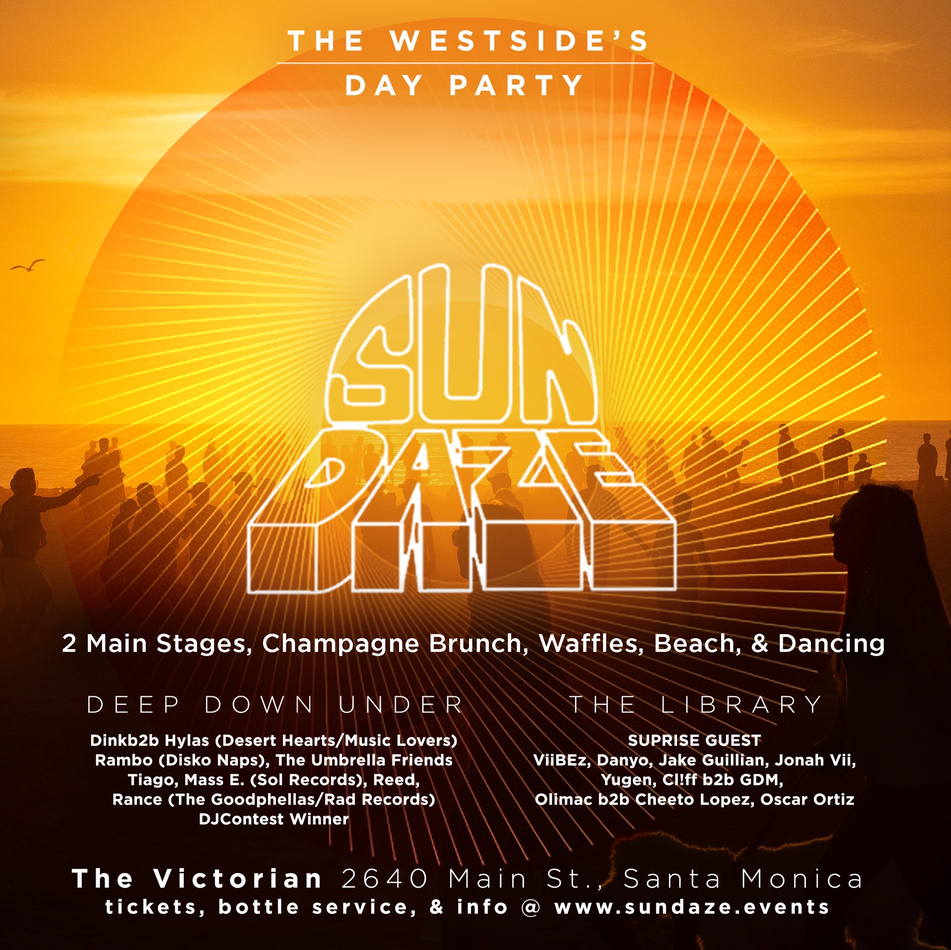
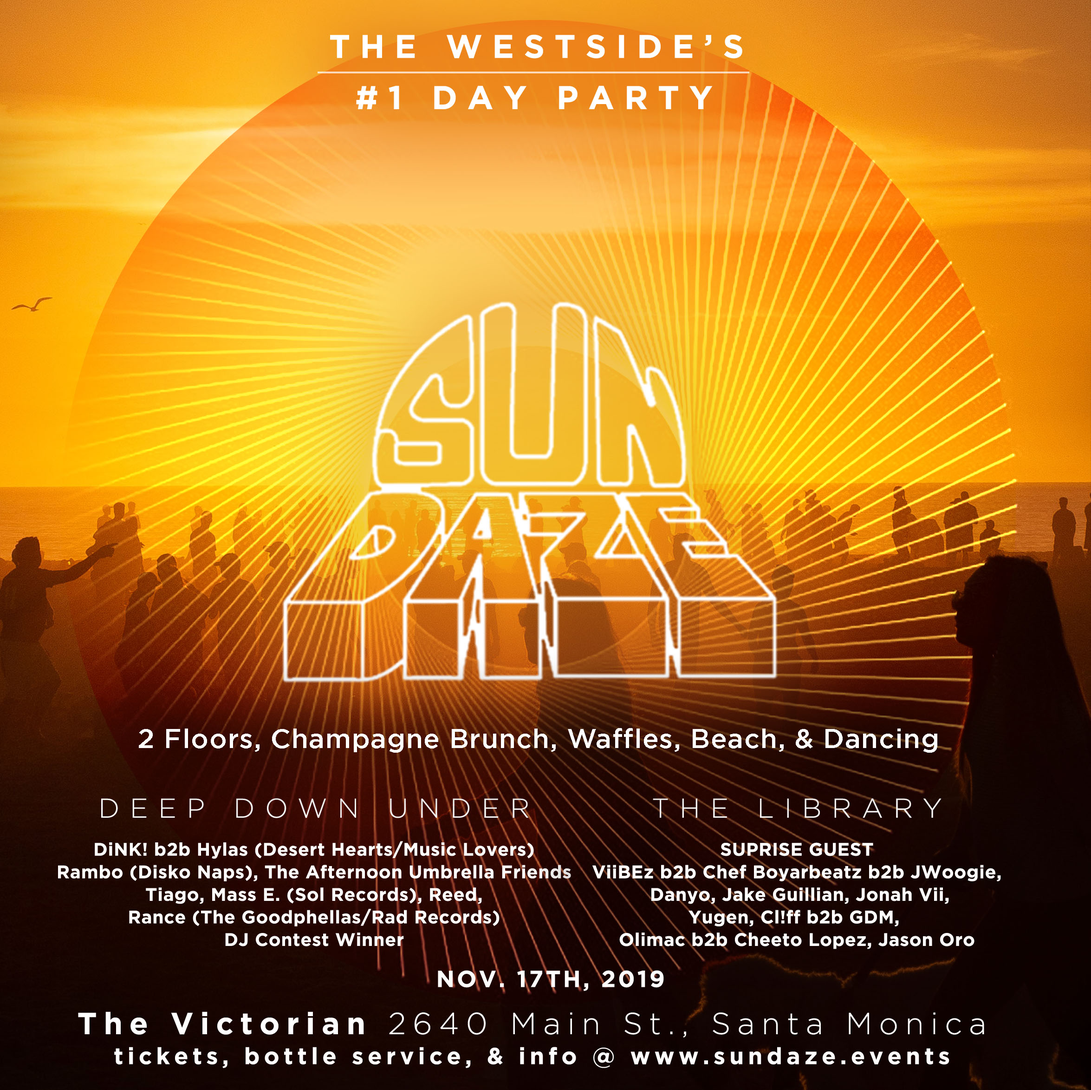
update flyer

Changed region(s): [[0.0312, 0.5853, 0.9375, 0.9858], [0.3125, 0.0308, 0.6875, 0.1232]]

diff --git a/index.html b/index.html
@@ -89,7 +89,7 @@
                 <div class="container container-text">
                     <div class="row">
                     	<div class="col-lg-8 col-lg-offset-2 text-center">
-                        	<h1 class="uppercase">Sundaze 2019</h1>
+                        	<h1 class="uppercase">Sundaze. November 17th, 2019.</h1>
                             <h4 class="headline">The Westside’s #1 Day Party with 2 Floors, Champagne Brunch, Waffles, Beach, & Dancing</h4>
                         </div>
                         
